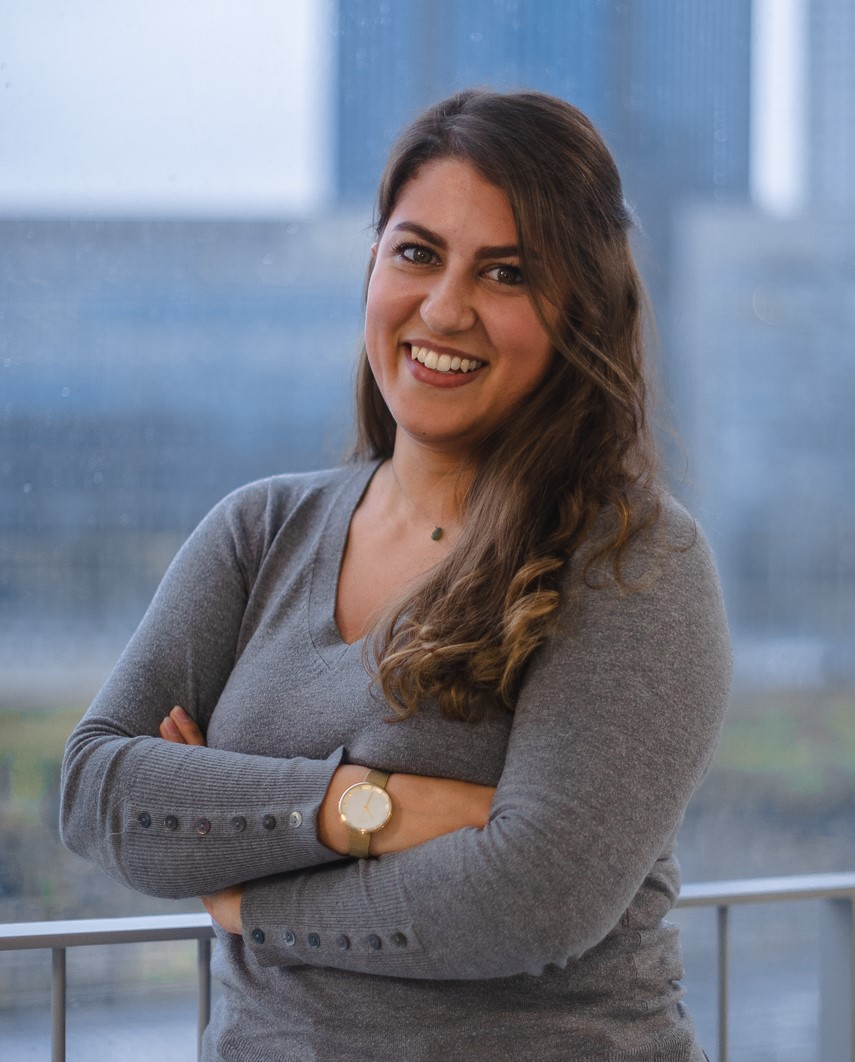
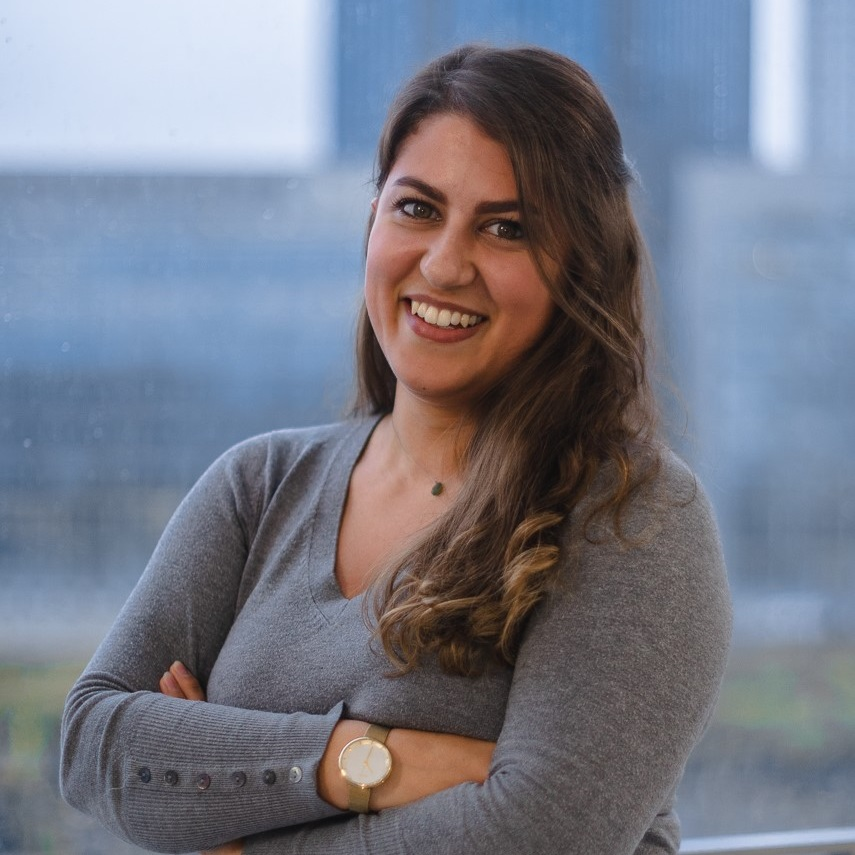
responsive design

diff --git a/index.html b/index.html
@@ -12,12 +12,12 @@
 		<div class="card-pinkshadow" id="aboutmediv">
 			<h1>Welcome to my digital profil! </h1>
 			<h2>Hello, I am Steffi</h2>
-			<p class="flotteleft">
-				<img src="images/steffi_nicolaides_pro_picture_2.jpg" width="140" height="180" alt="steffi_nicolaides" id="border-picture" class="padding-spaceright">
+			<p>
+				<img src="images/steffi_nicolaides_pro_picture_2.jpg" width="140" height="140" alt="steffi_nicolaides" id="border-picture">
 			</p>
 			<p id="aboutme"><br>
 				<h5b>ABOUT ME</h5b>
-				<ul id="aboutme">
+				<ul>
 					<li>
 						21 years old
 					</li>
@@ -38,12 +38,12 @@
 					</li>
 				</ul>
 			</p>
-			<p class="flotteright">
-			<img src="images/globe.png" width="90" height="90" alt="globe" class="padding-spaceleft"id="border-picture2">
-			</p>
-			<p id="aboutme">
+		</div>
+		<br>
+		<div class="card-pinkshadow">	
+			<img src="images/globe.png" width="90" height="90" alt="globe"id="border-picture2">
 			<h5>MY ORIGINS</h5>
-				<ul id="aboutme" class="text-right">
+				<ul>
 					<li>
 						Born in Toulouse
 					</li>
@@ -54,7 +54,6 @@
 						Lived in Leeds, Bruxelles, now in Paris
 					</li>
 				</ul>
-			</p>
 		</div>
 			<br>
 		<div class="card-pinkshadow">
@@ -62,7 +61,7 @@
 				<p class="text-justify">Passionate by digital and marketing, I learn every aspects of them thanks to all the courses of my Master. In order to fulfill all the requirements in digital skills, Le Wagon is a teaching place we have the opportunity to go. We learn there how to code and to design a website. And these are my favourite courses in all the Master since it may be what I want to do later. That is also why I feel the need to speak about them here.
 				</p>
 				<p class="text-center">↓ Slide down to see more about Le Wagon and their courses ↓</p>
-			<h3>Le Wagon courses</h3>
+			<h2>Le Wagon courses</h2>
 				<ol>
 					<li>
 						<strong>Front End Development </strong>: how to code a website
@@ -83,18 +82,18 @@
        			<td><h3>CODING</h3></td>
    			</tr>
    			<tr>
-       			<td><img src="images/giphy_yanismarshall.gif" width="140" height="125" alt="rihanna_gif"></td>
-       			<td><img src="images/giphy_social.gif" width="140" height="125" alt="social"></td>
-       			<td><img src="images/giphy_coding.gif" width="140" height="125" alt="coding"></td>
+       			<td><img src="images/giphy_yanismarshall.gif" width="140" height="125" alt="rihanna_gif" class="version500px"></td>
+       			<td><img src="images/giphy_social.gif" width="140" height="125" alt="social" class="version500px"></td>
+       			<td><img src="images/giphy_coding.gif" width="140" height="125" alt="coding" class="version500px"></td>
        		<tr>
        			<td><h3>DRAWING</h3></td>
        			<td><h3>DESIGNING</h3></td>
        			<td><h3>VOLUNTEERING</h3></td>
    			</tr>
    			<tr>
-   				<td><img src="images/giphy_draw.gif" width="140" height="125" alt="drawing"></td>
-   				<td><img src="images/giphy_design.gif" width="140" height="125" alt="design"></td>
-   				<td><img src="images/giphy_volunteering.gif" width="140" height="125" alt="volunteering"></td>
+   				<td><img src="images/giphy_draw.gif" width="140" height="125" alt="drawing" class="version500px"></td>
+   				<td><img src="images/giphy_design.gif" width="140" height="125" alt="design" class="version500px"></td>
+   				<td><img src="images/giphy_volunteering.gif" width="140" height="125" alt="volunteering" class="version500px"></td>
    			</tr>
    			<tr>	
    				<td><h3>BAKING</h3></td>
@@ -102,9 +101,9 @@
    				<td><h3>MAKE-UP</h3></td>
    			</tr>
    			<tr>
-   				<td><img src="images/giphy_baking.gif" width="140" height="125" alt="baking"></td>
-   				<td><img src="images/giphy_plan.gif" width="140" height="125" alt="plan"></td>
-   				<td><img src="images/giphy_makeup.gif" width="140" height="125" alt="makeup"></td>
+   				<td><img src="images/giphy_baking.gif" width="140" height="125" alt="baking" class="version500px"></td>
+   				<td><img src="images/giphy_plan.gif" width="140" height="125" alt="plan" class="version500px"></td>
+   				<td><img src="images/giphy_makeup.gif" width="140" height="125" alt="makeup" class="version500px"></td>
    			</tr>
 			</table>
 		</div><br>

diff --git a/style.css b/style.css
@@ -113,25 +113,25 @@ box-shadow: 0 10px 30px rgba(195,180,210,1);
 		width: 400px;
 		text-align: center;
 	}
-	.flotteleft p{
-		float: none;
-	}
-	.flotteright p{
-		float: none;
-	}
 	#links li{
 		padding-left: 0px;
 		margin-left: 0px;
-		width: 400px;
 	}
 	.table-center{
 		margin: 15px auto;
 	}
-	.padding-spaceleft{
-		padding: 0px;
+	.version500px{
+		width: 80px;
+		height: 60px;
 	}
-	.padding-spaceright{
-		padding: 0px;
+	h3 {
+		font-size: 9px;
+	}
+	h2 {
+		font-size: 16px;
+	}
+	.list-inline i{
+		align-items: center;
 	}
 }
 
@@ -152,18 +152,6 @@ box-shadow: 0 10px 30px rgba(195,180,210,1);
 
 /* about me text & image style */
 
-.flotteleft{
-	float: left;
-}
-.flotteright{
-	float: right;
-}
-.padding-spaceright{
-	padding: 0px 40px 0px 0px;
-}
-.padding-spaceleft{
-	padding: 0px 0px 0px 40px;
-}
 #aboutme{
 	width: 300px;
 	padding-top: 0.4px;
@@ -173,7 +161,7 @@ box-shadow: 0 10px 30px rgba(195,180,210,1);
 	padding-right: 90px;
 }
 #border-picture{
-	border-radius: 30px;
+	border-radius: 50%;
 }
 
 /* links style */
